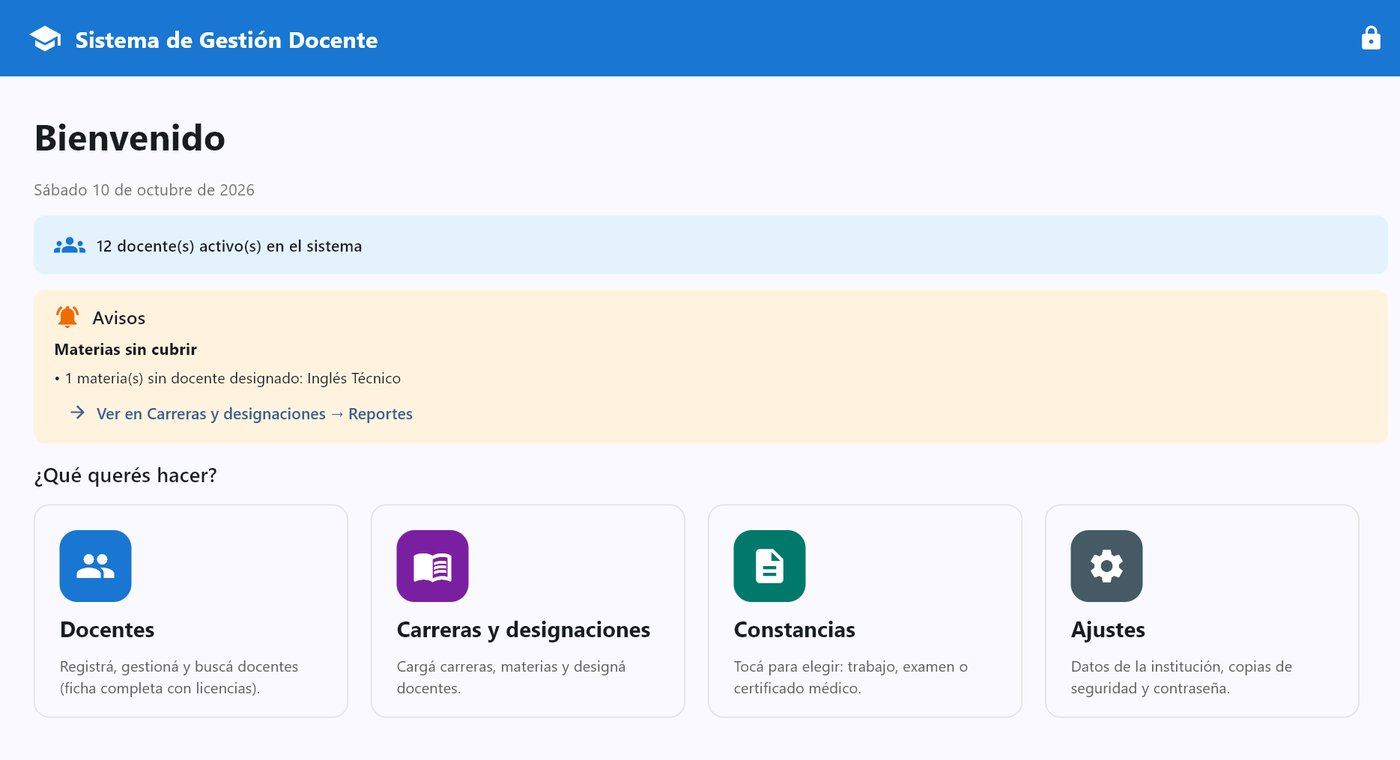
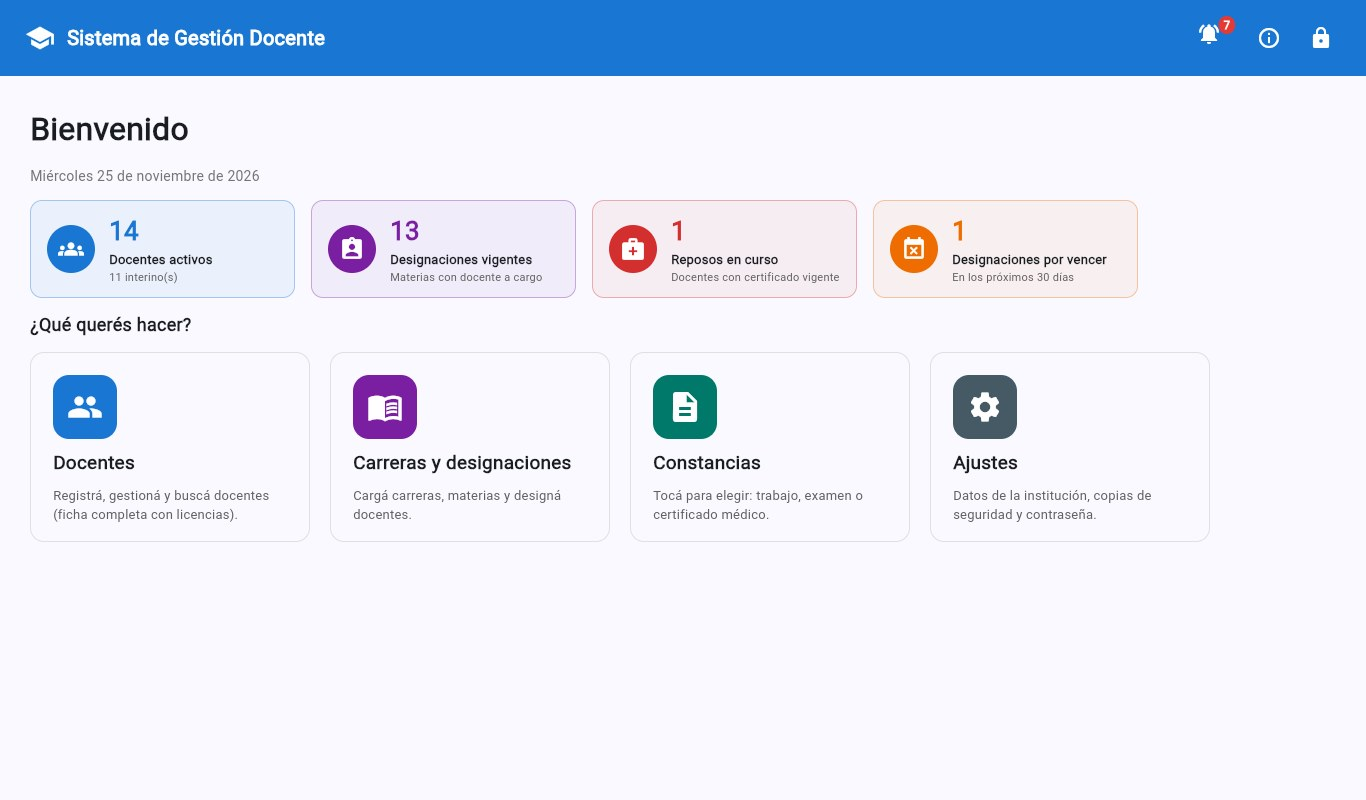
Actualizar el sistema de gestión docente: en uso en un instituto, versión 3.3.1 y capturas nuevas

diff --git a/index.html b/index.html
@@ -79,8 +79,8 @@
                 desarrollé e instalé un sistema de ventas, stock, cuentas corrientes y facturación
                 electrónica para un corralón y ferretería, que hoy está en uso. Como proyectos
                 de la carrera desarrollé un sistema de stock y ventas pensado para un local de
-                bebidas y un sistema de gestión docente pensado para un instituto, que funciona
-                como programa de escritorio para Windows. Por mi cuenta hice un sistema web de
+                bebidas y, con mi equipo, un sistema de gestión docente que instalamos en un instituto
+                terciario y hoy usa su secretaría. Por mi cuenta hice un sistema web de
                 mantenimiento e inventario de repuestos pensado para una planta industrial y un CRM
                 personal que ordena mi correo con inteligencia artificial y me ayuda en la búsqueda laboral.
             </p>
@@ -416,6 +416,9 @@
                 <h3>Sistema de Gestión Docente</h3>
 
                 <div class="proyecto-links">
+                    <span class="proyecto-etiqueta" title="Instalado en la secretaría de un instituto terciario">
+                        <i class="fa-solid fa-school"></i> En uso en un instituto
+                    </span>
                     <a href="https://github.com/AlesandroVi/gestion-docente" target="_blank" rel="noopener">
                         <i class="fa-brands fa-github"></i> Código
                     </a>
@@ -435,16 +438,17 @@
                         <i class="devicon-sqlite-plain colored" title="SQLite"></i>
                     </div>
                     <p>
-                        Aplicación de escritorio, desarrollada como proyecto de la carrera,
-                        para la administración del personal docente de un instituto de nivel superior.
+                        Aplicación de escritorio para la secretaría de un instituto de nivel superior.
+                        Empezó como proyecto de la carrera, en equipo con tres compañeros; la instalamos
+                        en el instituto y la seguimos actualizando según lo que piden al usarla (versión 3.3.1).
                     </p>
                     <ul class="proyecto-funciones">
-                        <li>Alta, edición y búsqueda de docentes, con importación y exportación de planillas Excel.</li>
-                        <li>Carreras, materias y designaciones, con control de licencias y suplencias.</li>
-                        <li>Reportes de materias sin cubrir y de docentes ausentes sin suplente.</li>
-                        <li>Constancias en PDF con los datos de la institución configurables.</li>
-                        <li>Contraseña guardada como hash PBKDF2, copias de seguridad automáticas y pruebas unitarias de las validaciones.</li>
-                        <li>Se distribuye como ejecutable para Windows.</li>
+                        <li>Legajo de docentes con ficha completa (situación actual, materias, licencias y carpeta médica), búsqueda sin tildes e importación y exportación de Excel.</li>
+                        <li>Carreras, materias, designaciones y suplencias, y una grilla semanal de horarios que detecta choques de docente, curso y aula.</li>
+                        <li>Inicio con indicadores y avisos: reposos, licencias, materias sin cubrir y designaciones por vencer.</li>
+                        <li>Constancias de trabajo, de examen y de licencia médica en PDF, con número correlativo y libro de constancias emitidas.</li>
+                        <li>283 pruebas automáticas, revisión de bugs con pruebas de regresión y auditoría de seguridad (Gitleaks, Semgrep, Bandit, pip-audit) sin hallazgos críticos ni altos.</li>
+                        <li>Contraseña con hash PBKDF2, copias de seguridad automáticas, migraciones de la base y ejecutable portable para Windows con manual de usuario.</li>
                     </ul>
                 </div>
 
@@ -455,9 +459,9 @@
             </div>
 
             <div class="proyecto-galeria">
-                <img class="captura" src="img/docentes-gestionar.jpg" alt="Listado de docentes cargados" loading="lazy">
-                <img class="captura" src="img/docentes-designaciones.jpg" alt="Formulario de nueva designación" loading="lazy">
-                <img class="captura" src="img/docentes-reportes.jpg" alt="Reporte de materias sin cubrir" loading="lazy">
+                <img class="captura" src="img/docentes-horarios.jpg" alt="Grilla semanal de horarios de una carrera" loading="lazy">
+                <img class="captura" src="img/docentes-ficha.jpg" alt="Ficha de un docente con su situación actual y sus datos" loading="lazy">
+                <img class="captura" src="img/docentes-avisos.jpg" alt="Campanita de avisos con reposos, licencias y materias sin cubrir" loading="lazy">
             </div>
 
         </article>
